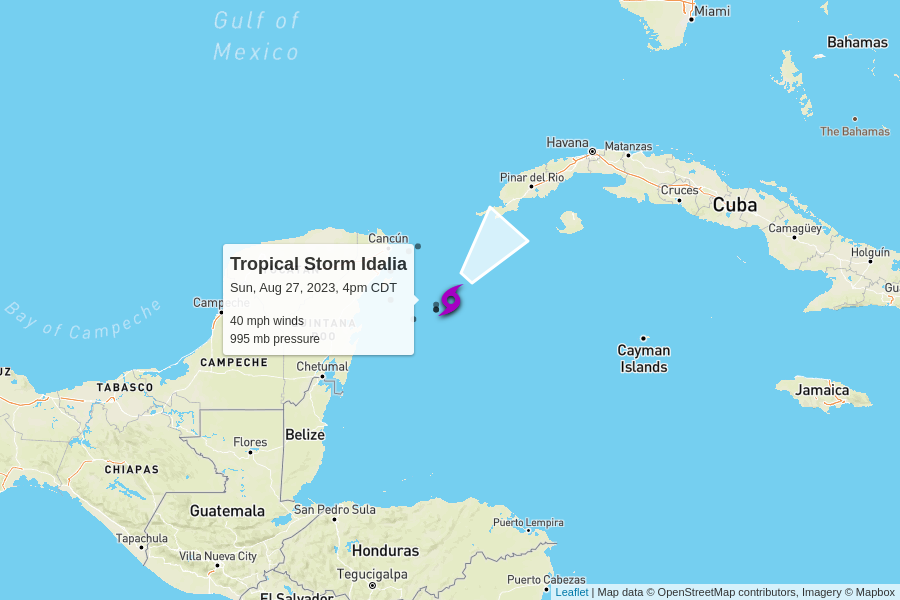
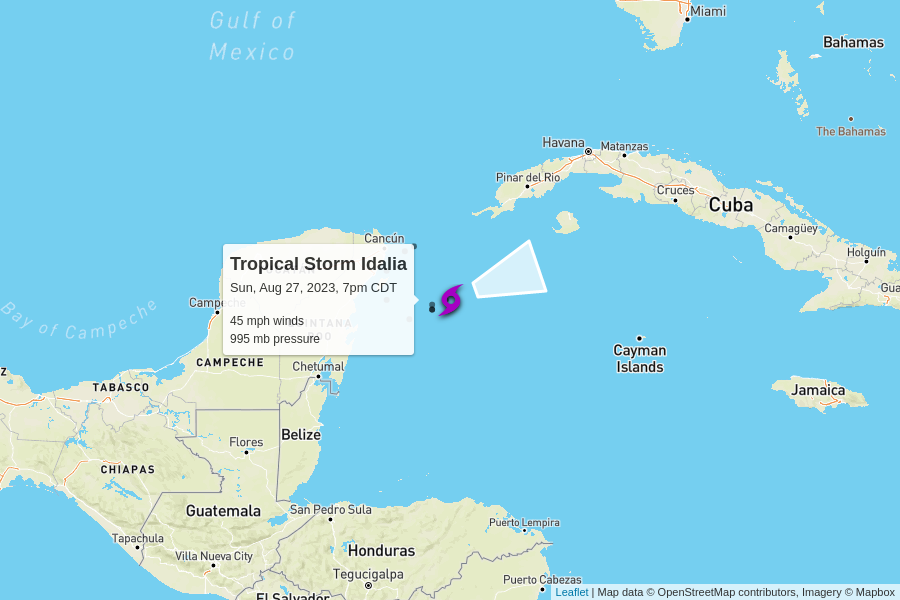
automatic update

diff --git a/docs/index.html b/docs/index.html
@@ -97,6 +97,50 @@
 
     <table>
       <tr>
+        <td colspan="6" class="storm category-0" >
+          <h2>
+            Tropical Storm Idalia
+            <p class="updated">last updated <span data-time>2023-08-28T00:00:00.000Z</span></p>
+          </h2>
+        </td>
+      </tr>
+      
+      <tr>
+        <th class="spacer"></th>
+        <th>wind speed</th>
+        <th>central pressure</th>
+        <th>movement</th>
+        <th>data (CSV)</th>
+        <th>National Hurricane Center</th>
+      </tr>
+      <tr>
+        <td class="spacer"></td>
+        <td>45 mph</td>
+        <td>995 mb</td>
+        <td>
+          3 mph to the east-northeast
+          <br/>
+          <span style="display: inline-block; font-size: 1.5em; transform: rotate(70deg);">↑</span>
+        </td>
+        <td><a href="https://raw.githubusercontent.com/mgwalker/atlantic-hurricanes/main/data/csv/AL102023.csv">AL102023.csv</a></td>
+        <td><a href="https://www.nhc.noaa.gov/archive/2023/IDALIA.shtml?">NHC advisories</a></td>
+      </tr>
+      <tr id="storm_AL102023" >
+        <td class="spacer">
+        <td colspan="5">
+          <figure>
+            <img src="AL102023.png">
+            <figcaption>
+              Map data &copy; <a href="https://www.openstreetmap.org/copyright">OpenStreetMap</a> contributors,
+              Imagery &copy; <a href="https://www.mapbox.com/">Mapbox</a> |
+              <a href="https://www.mapbox.com/map-feedback/" target="_blank">Improve this map</a>
+            </figcaption>
+          </figure>
+        </td>
+      </tr>
+      
+
+      <tr>
         <td colspan="6" class="storm category-2" >
           <h2>
             Hurricane Franklin - Category 2
@@ -130,50 +174,6 @@
         <td colspan="5">
           <figure>
             <img src="AL082023.png">
-            <figcaption>
-              Map data &copy; <a href="https://www.openstreetmap.org/copyright">OpenStreetMap</a> contributors,
-              Imagery &copy; <a href="https://www.mapbox.com/">Mapbox</a> |
-              <a href="https://www.mapbox.com/map-feedback/" target="_blank">Improve this map</a>
-            </figcaption>
-          </figure>
-        </td>
-      </tr>
-      
-
-      <tr>
-        <td colspan="6" class="storm category-0" >
-          <h2>
-            Tropical Storm Idalia
-            <p class="updated">last updated <span data-time>2023-08-27T21:00:00.000Z</span></p>
-          </h2>
-        </td>
-      </tr>
-      
-      <tr>
-        <th class="spacer"></th>
-        <th>wind speed</th>
-        <th>central pressure</th>
-        <th>movement</th>
-        <th>data (CSV)</th>
-        <th>National Hurricane Center</th>
-      </tr>
-      <tr>
-        <td class="spacer"></td>
-        <td>40 mph</td>
-        <td>995 mb</td>
-        <td>
-          3 mph to the northeast
-          <br/>
-          <span style="display: inline-block; font-size: 1.5em; transform: rotate(40deg);">↑</span>
-        </td>
-        <td><a href="https://raw.githubusercontent.com/mgwalker/atlantic-hurricanes/main/data/csv/AL102023.csv">AL102023.csv</a></td>
-        <td><a href="https://www.nhc.noaa.gov/archive/2023/IDALIA.shtml?">NHC advisories</a></td>
-      </tr>
-      <tr id="storm_AL102023" >
-        <td class="spacer">
-        <td colspan="5">
-          <figure>
-            <img src="AL102023.png">
             <figcaption>
               Map data &copy; <a href="https://www.openstreetmap.org/copyright">OpenStreetMap</a> contributors,
               Imagery &copy; <a href="https://www.mapbox.com/">Mapbox</a> |
